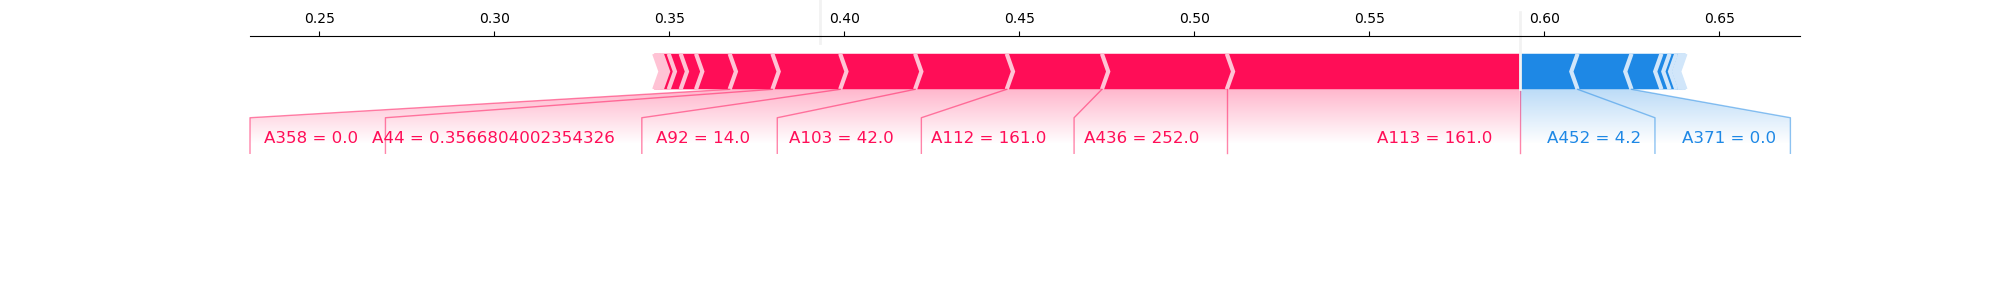
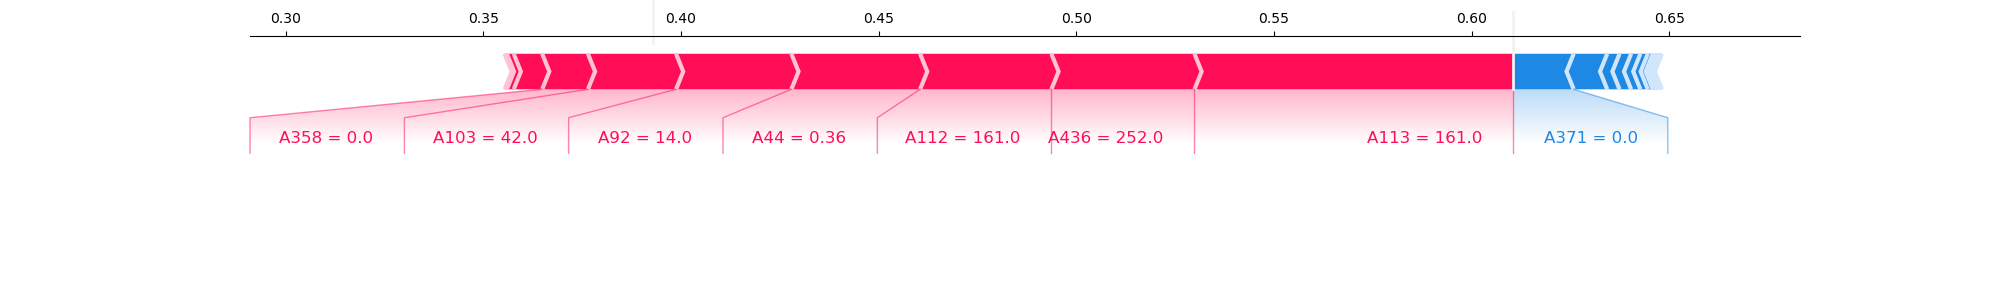
round numbers

diff --git a/assignment2.py b/assignment2.py
@@ -152,7 +152,7 @@ def printSHAP(trained_model, records, list_to_plot):
     shap.initjs()
     for i in list_to_plot:
         shap_values = explainer.shap_values(records.iloc[i])
-        shap.force_plot(explainer.expected_value[1], shap_values[1], records.iloc[i], show=False, matplotlib=True)
+        shap.force_plot(round(explainer.expected_value[1], 3), shap_values[1], records.iloc[i].round(3), show=False, matplotlib=True)
         plt.pyplot.savefig('shap_plot_' + str(i) + '.png')
 
 
